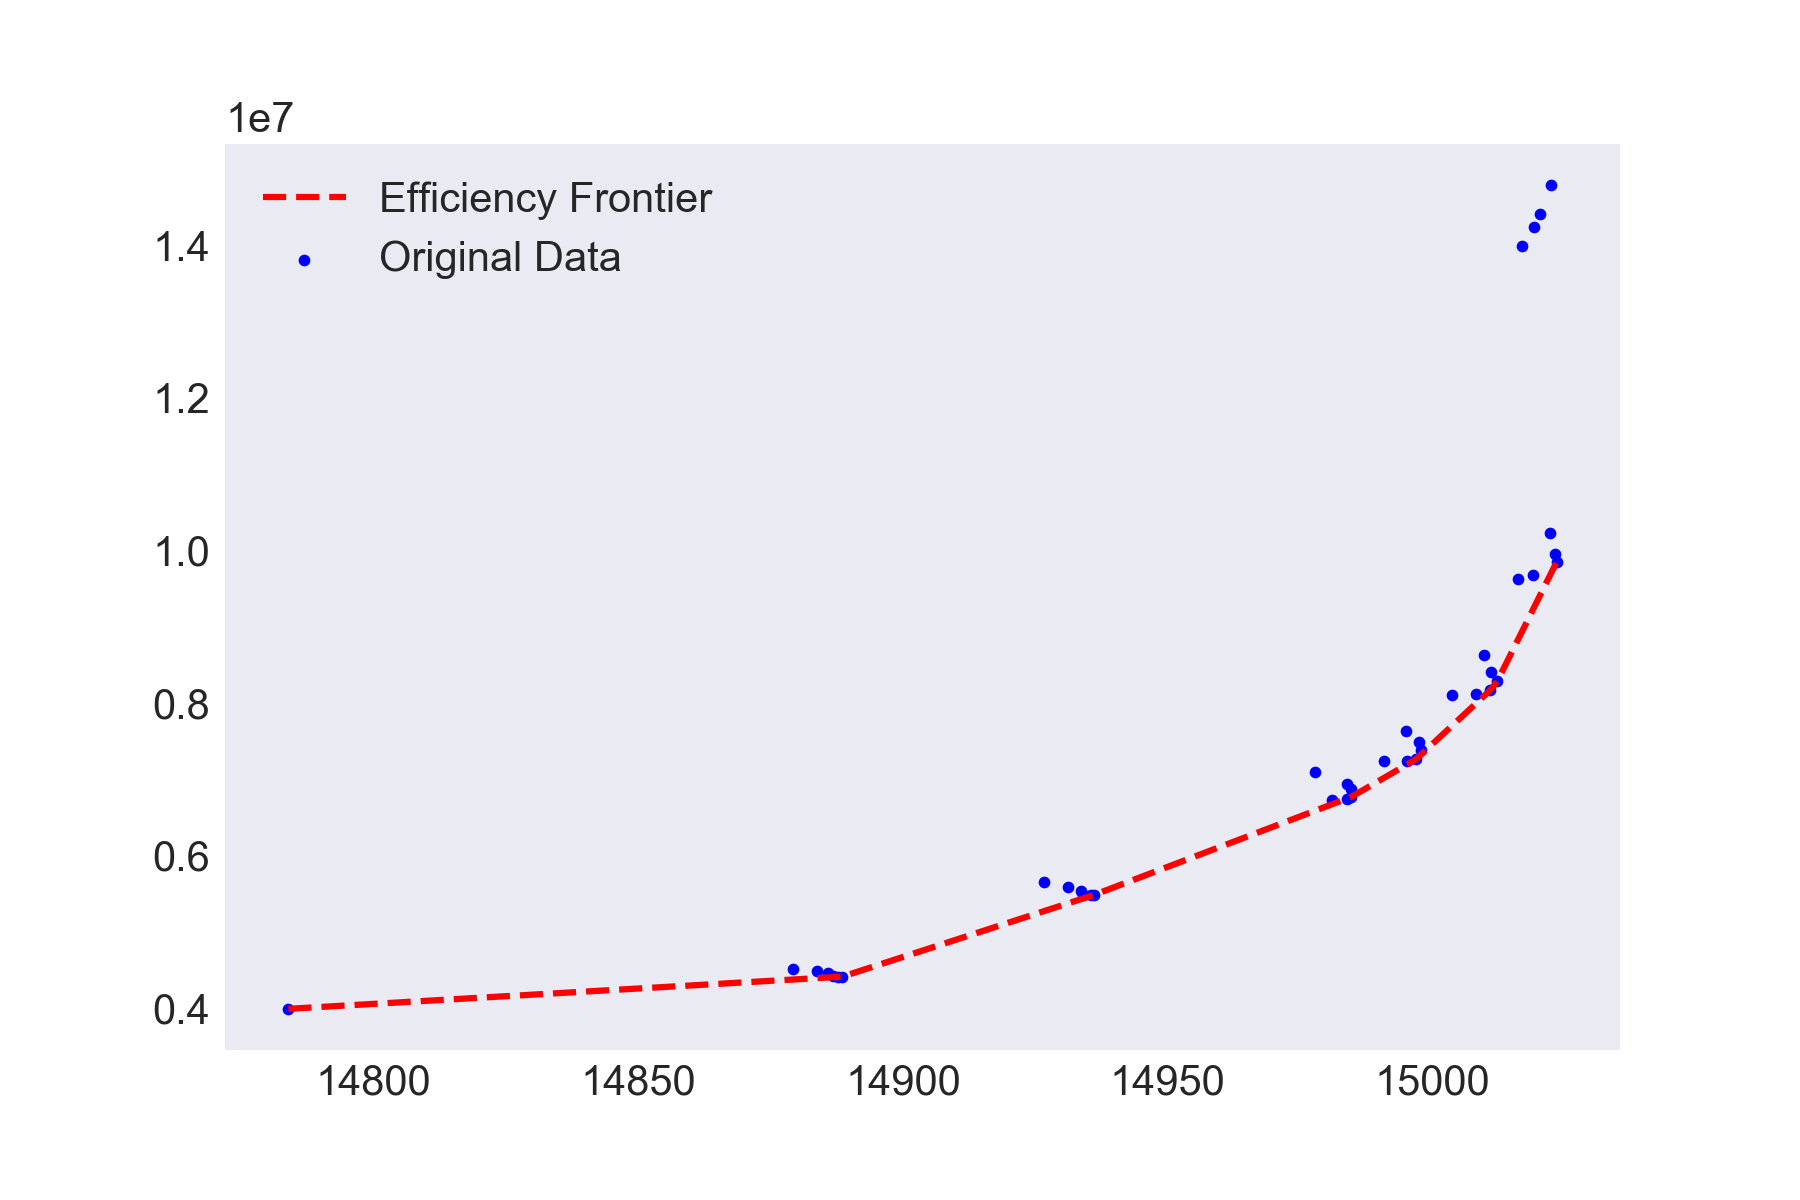
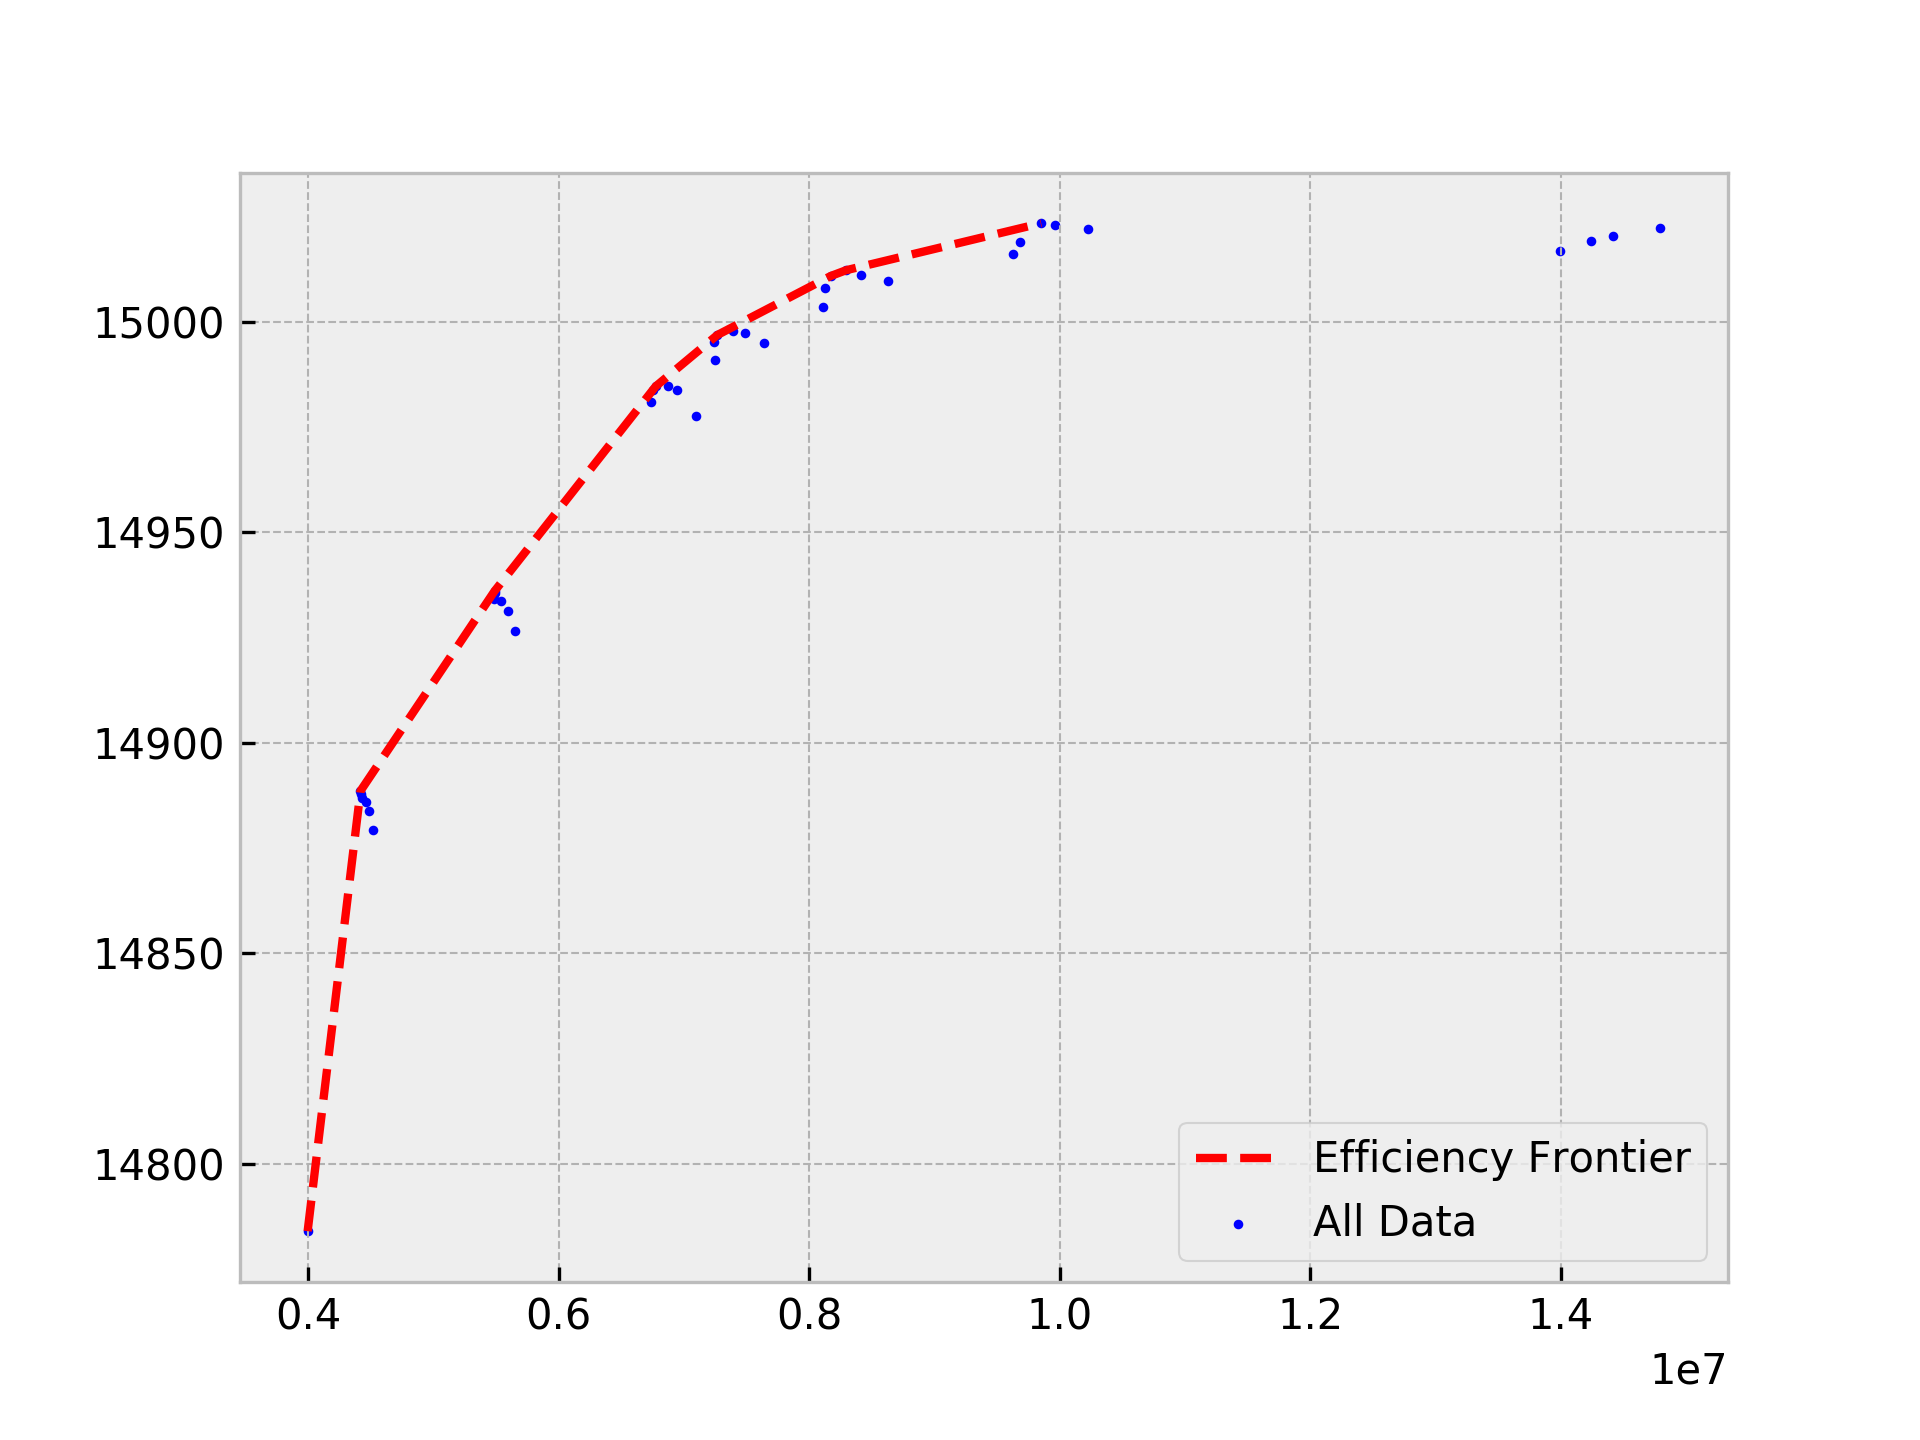
Converted into function format and included many different options for configuration and customization

diff --git a/efficiency_frontier.py b/efficiency_frontier.py
@@ -1,106 +1,168 @@
 '''
-Module will calculate an efficency frontier. Point to whatever file path
-contains the data in csv format.
-
-Data should have NO header, but be in order of label, x, y
-
-I use y and x as used in an ICER calculation (y/x) (cost / qaly, for example)
+Module will calculate an efficency frontier.
 '''
-
+import enum
 import numpy as np
 import matplotlib.pyplot as plt
 import pandas as pd
 
-# Update folder location where we will read in data and write to
-base_path = ''
 
-data = []
-f = open(base_path + 'data_example.csv', 'r')
+class DataIndex(enum.IntEnum):
+    Label = 0
+    Benefit = 1
+    Cost = 2
 
-# Read in data in format of a list of ... 
-# []
-got_header = False
-for line in f:
-    split_line = line.split(',')
-    row = []
-    row.append(split_line[0])
-    row.append(float(split_line[1]))
-    row.append(float(split_line[2]))
-    data.append(row)
 
-plt.style.use('seaborn-bright')
-# Plot original data
-originalx = [x[1] for x in data]
-originaly = [y[2] for y in data] 
-plt.scatter(originalx, originaly, s = 3.25, c = 'b', label = 'Original Data')
-
-# sort inplace by the y and x values
-data.sort(key = lambda x: (x[1], x[2]))
-
-# Then, iteratively go through dataframe dropping strategies that are
-# dominated; i.e. strategies where the y value is lower than the one before
-# it (we already know that the x value is higher)
-
-while True:
-    end = False
-    for index in range(len(data)):
-        if index == len(data) - 1:
-            end = True
-            break
-        else:
-            if (data[index][1] >= data[index+1][1] and 
-                data[index][2] < data[index+1][2]):
-                # Del instead of pop because we don't care what was deleted
-                del data[index + 1]
-                # Restart from the top
-                break
-    if end is True:
-        break
-
-# Now comes a tricky part. We calculate ICERs between adjacent pairs and
-# drop the strategies where the ICER is greater than the next pair
-
-def get_icers():
+def get_icers(data):
     icers = []
-    for i in range(1, len(data)):
-        icers.append((data[i][2] - data[i-1][2])/
-                     (data[i][1] - data[i-1][1]))
+    for strategy in range(1, len(data)):
+        icers.append(
+            (data[strategy][DataIndex.Cost] - data[strategy
+                                                   - 1][DataIndex.Cost]) /
+            (data[strategy][DataIndex.Benefit] - data[strategy
+                                                      - 1][DataIndex.Benefit]))
     return icers
 
-while True:
-    end = False
-    icers = get_icers()
-    # length of ICER's is 1 less than the length of data
-    for index in range(len(icers)):
-        if index == len(icers) - 1:
-            end = True
-            break
-        else:
-            if icers[index] > icers[index + 1]:
-                # Del instead of pop because we don't care what was deleted
-                # This is a little tricky, but assume we have icers like this:
-                # 2 vs 1 -> 100
-                # 3 vs 2 -> 300
-                # 4 vs 3 --> 200
-                # Then because 3 vs 2 is greater than 4 vs 3, we delete
-                # the third strategy which is index 1 in our ICERs BUT is
-                # actually index 2 in our data
-                del data[index +1]
-                # Restart from the top
+
+def drop_icer_dominated_strategies(data):
+
+    while True:
+        end = False
+        icers = get_icers(data)
+        # length of ICER's is 1 less than the length of data
+        for index in range(len(icers)):
+            if index == len(icers) - 1:
+                end = True
                 break
-    if end is True:
-        # Append ICER's
-        data[0].append("N/A")
-        for i in range(1, len(data)):
-            data[i].append(icers[i-1])
-        break
+            else:
+                if icers[index] > icers[index + 1]:
+                    # This is a little tricky, but assume we have icers
+                    # like this:
+                    # 2 vs 1 -> 100
+                    # 3 vs 2 -> 300
+                    # 4 vs 3 --> 200
+                    # Then because 3 vs 2 is greater than 4 vs 3, we delete
+                    # the third strategy which is index 1 in our ICERs BUT is
+                    # actually index 2 in our data
+                    del data[index + 1]
+                    # Restart from the top
+                    break
+        if end is True:
+            # Append ICER's
+            data[0].append("N/A")
+            for i in range(1, len(data)):
+                data[i].append(icers[i - 1])
+            break
 
-# Write final output
-header = ['Label', 'X', 'Y', 'ICER']
-df = pd.DataFrame(data, columns = header)
-df.to_csv(base_path + 'frontier_data.csv', index = False)
 
-plt.plot(df['X'], df['Y'], 'r--', label = 'Efficiency Frontier')
-plt.legend()
-plt.savefig(base_path + 'graphed_data.png', dpi = 300)
-plt.show()
+def drop_dominated_strategies(data):
+    while True:
+        end = False
+        for strategy in range(len(data)):
+            if strategy == len(data) - 1:
+                end = True
+                break
+            else:
+                if (data[strategy][DataIndex.Benefit] >=
+                        data[strategy + 1][DataIndex.Benefit]
+                        and data[strategy][DataIndex.Cost] <
+                        data[strategy + 1][DataIndex.Cost]):
+                    # Dominated
+                    del data[strategy + 1]
+                    # Restart from the top
+                    break
+        if end is True:
+            break
+
+
+def get_data_from_csv(path, header_in_file):
+    data = []
+    f = open(path, 'r')
+    got_header = True
+    if header_in_file is True:
+        got_header = False
+    for line in f:
+        if got_header is False:
+            got_header = True
+        else:
+            split_line = line.split(',')
+            row = []
+            row.append(split_line[0])
+            row.append(float(split_line[1]))
+            row.append(float(split_line[2]))
+            data.append(row)
+    return data
+
+
+def calculate_frontier(data=None,
+                       path_to_data=None,
+                       data_header_in_csv=False,
+                       print_output=True,
+                       path_to_output=None,
+                       graph=True,
+                       path_to_graph_output=None,
+                       invert_graph=False):
+    '''
+    Input data in format of [[strategy labels, benefits, costs]]; a
+    n x 3 dimensional array where n is the number of strategies and each row
+    has a label (string), a benefit (double), and a cost (double). Or,
+    write the analagous in a CSV file and point to the file and whether or not
+    there is a header.
+    Function will return a tuple of:
+    1) The strategy with the most benefit
+    2) The strategy with the least cost
+    3) The most optimal strategy
+    '''
+    if data is None:
+        data = get_data_from_csv(path_to_data, data_header_in_csv)
+    if graph is True:
+        plt.style.use('bmh')
+        # Plot all of the data
+        all_benefit = [strategy[DataIndex.Benefit] for strategy in data]
+        all_cost = [strategy[DataIndex.Cost] for strategy in data]
+        if invert_graph:
+            plt.scatter(all_cost, all_benefit, s=3.25, c='b', label='All Data')
+        else:
+            plt.scatter(all_benefit, all_cost, s=3.25, c='b', label='All Data')
+
+    # sort data inplace by the cost and benefit values
+    data.sort(
+        key=
+        lambda strategy: (strategy[DataIndex.Benefit], strategy[DataIndex.Cost])
+    )
+
+    # Then, iteratively go through dataframe dropping strategies that are
+    # dominated; i.e. strategies where the cost value is lower than the one
+    # before it (we already know that the benefit value is higher)
+
+    drop_dominated_strategies(data)
+
+    # Now comes a tricky part. We calculate ICERs between adjacent pairs and
+    # drop the strategies where the ICER is greater than the next pair
+
+    drop_icer_dominated_strategies(data)
+
+    # Final headers and dataframes
+    header = ['Label', 'Benefit', 'Cost', 'ICER']
+    df = pd.DataFrame(data, columns=header)
+    if print_output is True:
+        # Write final output
+        if path_to_output is None:
+            path_to_output = 'frontier_data.csv'
+        df.to_csv(path_to_output, index=False)
+
+    if graph is True:
+        if path_to_graph_output is None:
+            path_to_graph_output = 'graphed_data'
+        if invert_graph:
+            plt.plot(
+                df['Cost'], df['Benefit'], 'r--', label='Efficiency Frontier')
+        else:
+            plt.plot(
+                df['Benefit'], df['Cost'], 'r--', label='Efficiency Frontier')
+        plt.legend()
+        plt.savefig(path_to_graph_output, dpi=300)
+        plt.close()
+        plt.clf()
+
+    return

diff --git a/test.py b/test.py
@@ -1,0 +1,11 @@
+import efficiency_frontier
+
+efficiency_frontier.calculate_frontier(
+    data=None,
+    path_to_data='data_example.csv',
+    data_header_in_csv=False,
+    print_output=True,
+    path_to_output=None,
+    graph=True,
+    path_to_graph_output=None,
+    invert_graph=True)
